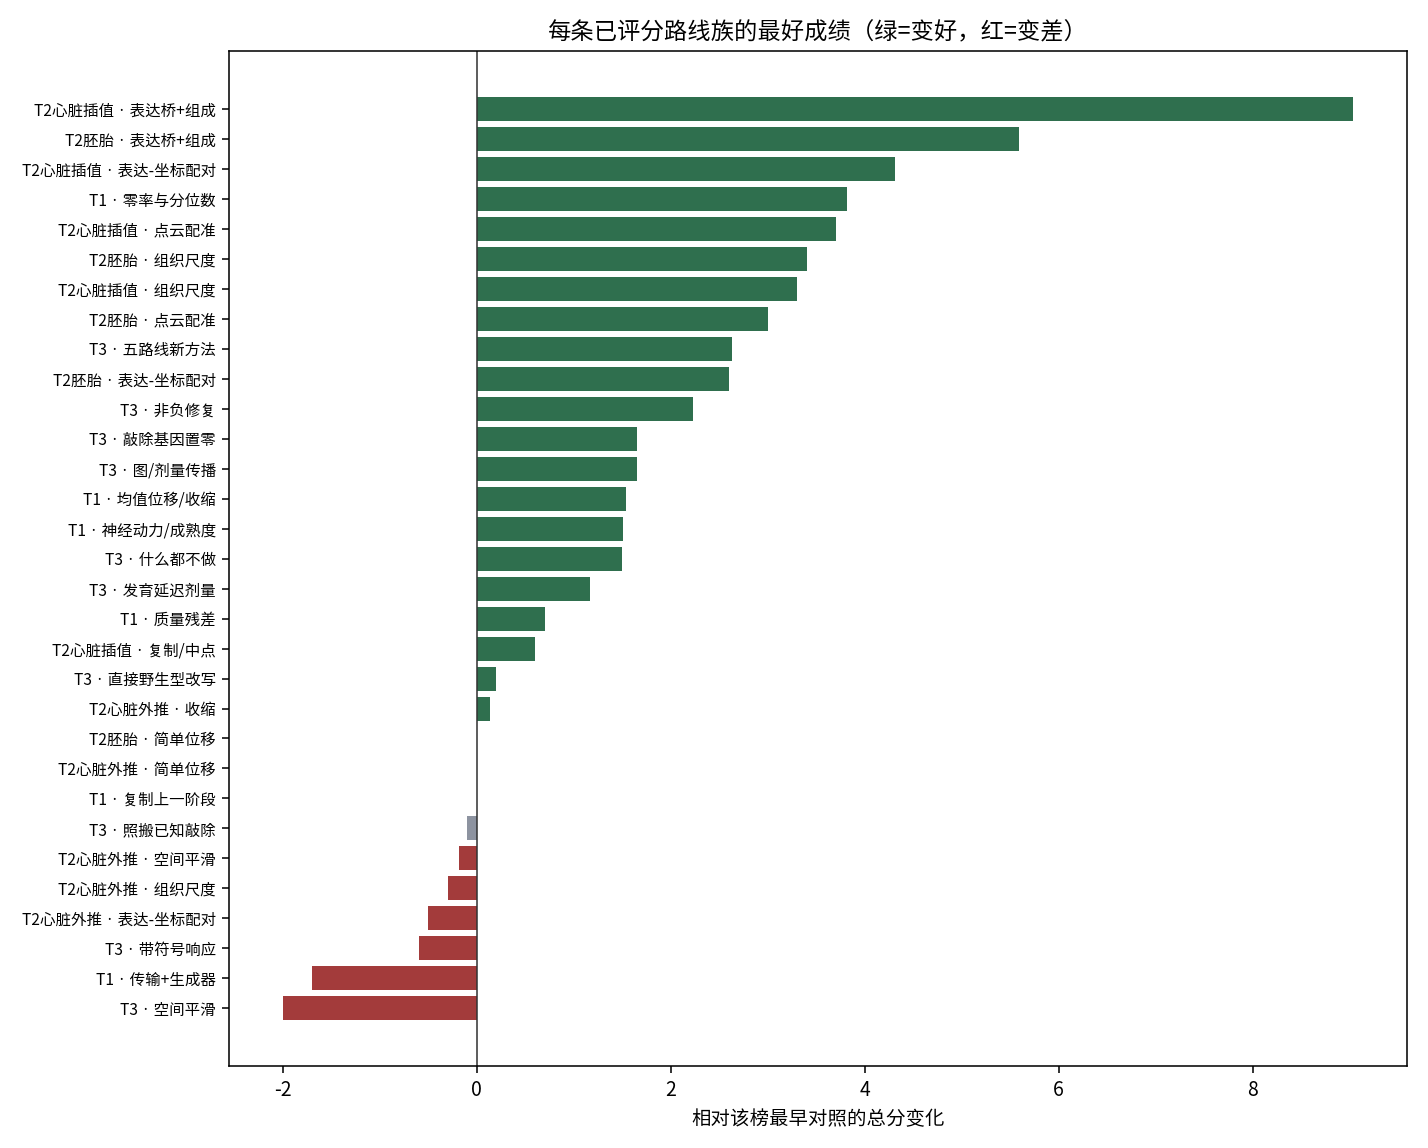
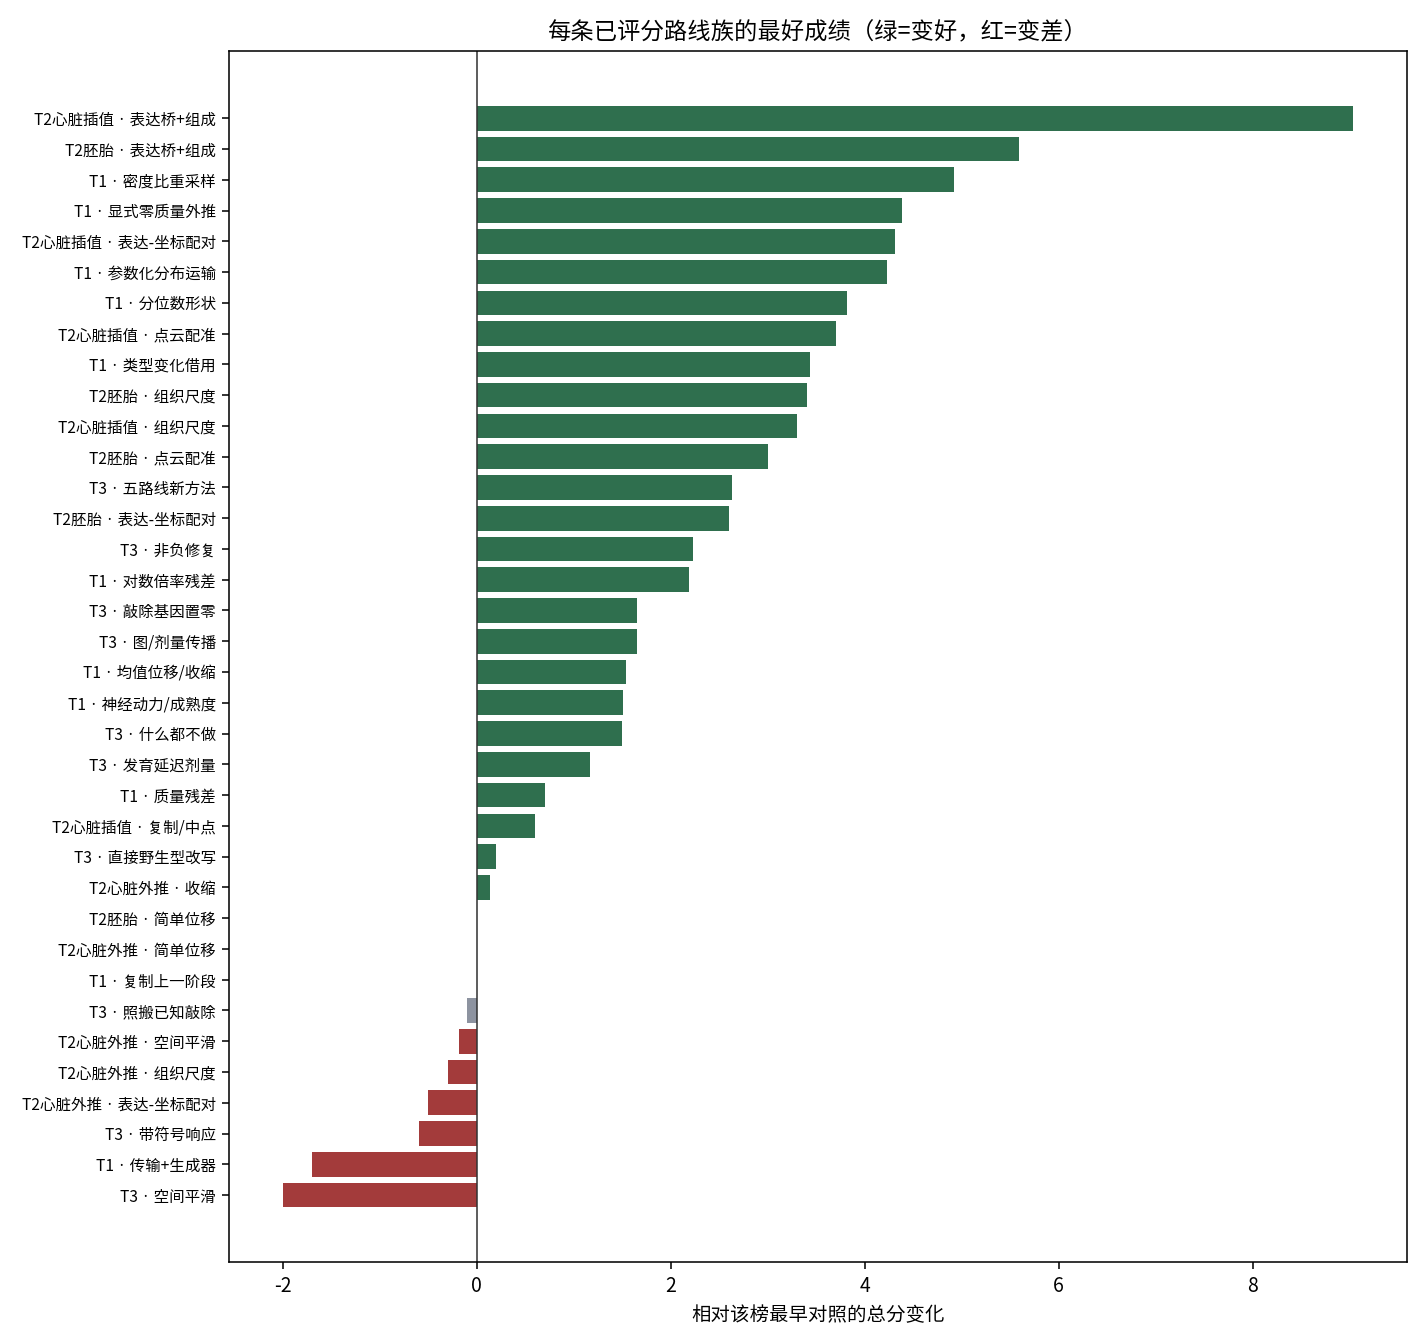
Register T1 five-route scores: v0024 51.92 promoted, Total 158.14; update the existing route synthesis in place

Changed region(s): [[0.1541, 0.0, 0.986, 0.6707], [0.0, 0.061, 0.1541, 0.9146], [0.1541, 0.7012, 0.986, 1.0]]

diff --git a/reviews/2026-09-27_submitted-route-synthesis/build_review_assets.py b/reviews/2026-09-27_submitted-route-synthesis/build_review_assets.py
@@ -49,7 +49,12 @@ FAMILIES = [
     ("T1:val", "质量残差", ["v0005", "v0006"]),
     ("T1:val", "传输+生成器", ["v0007", "v0008", "v0022"]),
     ("T1:val", "神经动力/成熟度", ["v0015", "v0016", "v0017"]),
-    ("T1:val", "零率与分位数", ["v0023"]),
+    ("T1:val", "分位数形状", ["v0023"]),
+    ("T1:val", "密度比重采样", ["v0024"]),
+    ("T1:val", "参数化分布运输", ["v0025"]),
+    ("T1:val", "类型变化借用", ["v0026"]),
+    ("T1:val", "显式零质量外推", ["v0027"]),
+    ("T1:val", "对数倍率残差", ["v0028"]),
     ("T2:embryo:val_interp", "简单位移", ["v0001"]),
     ("T2:embryo:val_interp", "组织尺度", ["v0002", "v0003"]),
     ("T2:embryo:val_interp", "表达-坐标配对", ["v0004", "v0005"]),
@@ -154,7 +159,12 @@ def main() -> None:
 
     # highlighted submetric comparisons: winner vs a meaningful parent/baseline that has skills
     comparisons = [
-        ("T1:val", "v0023", "v0004", "零率分位数 vs 严格均值位移"),
+        ("T1:val", "v0024", "v0023", "密度比重采样 vs 分位数父版本"),
+        ("T1:val", "v0025", "v0023", "参数化运输 vs 分位数父版本"),
+        ("T1:val", "v0026", "v0023", "类型借用 vs 分位数父版本"),
+        ("T1:val", "v0027", "v0023", "显式零质量 vs 分位数父版本"),
+        ("T1:val", "v0028", "v0023", "对数倍率 vs 分位数父版本"),
+        ("T1:val", "v0023", "v0004", "分位数形状 vs 严格均值位移"),
         ("T1:val", "v0019", "v0004", "收缩微调 vs 严格均值位移"),
         ("T1:val", "v0022", "v0004", "全基因流匹配 vs 严格均值位移"),
         ("T2:embryo:val_interp", "v0010", "v0002", "表达桥 vs 组织尺度"),
@@ -213,7 +223,7 @@ def main() -> None:
         best = max(r["score"] for r in have)
         fam_rows.append((best - base, f"{BOARD_SHORT[board]} · {fam}", best))
     fam_rows.sort()
-    fig, ax = plt.subplots(figsize=(10.2, 8.2))
+    fig, ax = plt.subplots(figsize=(10.2, 9.6))
     ys = range(len(fam_rows))
     colors = ["#a33b3b" if d < -0.1 else "#2f6f4e" if d > 0.1 else "#8d93a0" for d, _, _ in fam_rows]
     ax.barh(list(ys), [d for d, _, _ in fam_rows], color=colors)
@@ -228,7 +238,7 @@ def main() -> None:
 
     # submetric small multiples for the three confirmed wins + extrap non-win
     panels = [
-        ("T1 零率分位数\n相对严格位移", "T1:val", "v0023", "v0004",
+        ("T1 密度比重采样\n相对分位数父版本", "T1:val", "v0024", "v0023",
          ["de_score", "de_direction", "mmd_u", "variogram"]),
         ("T2心脏插值 表达桥\n相对配对", "T2:heart:val_interp", "v0013", "v0009",
          ["de_score", "de_direction", "mmd_u", "scale_log_ratio", "variogram", "neighborhood_mmd"]),

diff --git a/reviews/2026-09-27_submitted-route-synthesis/REPORT.md b/reviews/2026-09-27_submitted-route-synthesis/REPORT.md
@@ -1,10 +1,10 @@
-# 已评分路线综述（2026-09-27）
+# 已评分路线综述（2026-09-27，2026-09-28 补记 T1 五路线）
 
-这次只谈**已经交到服务器、并且分数已经回填**的路线。本地做过、但没交或还没回分的，单独放在后面，不和服务器结论混写。
+这次只谈**已经交到服务器、并且分数已经回填**的路线。本地做过、但没交或还没回分的，单独放在后面，不和服务器结论混写。2026-09-28 把 T1 五路线回分写进本文和图，没有另开新综述。
 
 数字来自 `submissions/INDEX.tsv` 和 `reports/SERVER_SUBMETRIC_REGISTRY.tsv`。老版本 INDEX 里有的总分是页面四舍五入（例如 T1 v0004 记成 48.5，精确值是 48.47）。晋级比较用精确值。没有用子项倒推出总分。
 
-当前官方合计 **157.04** = T1 50.82 + T2 任务分 58.29 + T3 47.93。T2 的 58.29 不是三个榜的分数相加。心脏外推榜已有 50.64，但合计里用的仍是 50.53，差 0.11，还没从门户页面对上，这里不把它算进合计。
+当前官方合计 **158.14** = T1 51.92 + T2 任务分 58.29 + T3 47.93。T2 的 58.29 不是三个榜的分数相加。心脏外推榜已有 50.64，但合计里用的仍是 50.53，差 0.11，还没从门户页面对上，这里不把它算进合计。
 
 ## 先看一张图
 
@@ -14,13 +14,13 @@
 
 | 榜 | 最早对照 | 目前最高 | 拉开多少 | 最高来自哪条路线 |
 |---|---:|---:|---:|---|
-| T1 时间 | 47.0 复制上一阶段 | **50.82** | +3.82 | 零率 + 分位数（v0023） |
+| T1 时间 | 47.0 复制上一阶段 | **51.92** | +4.92 | 密度比重采样（v0024，父版本是 50.82 的分位数形状） |
 | T2 胚胎插值 | 56.7 简单位移 | **62.29** | +5.59 | 表达桥 + 组成（v0010） |
 | T2 心脏插值 | 53.0 复制上一阶段 | **62.04** | +9.04 | 表达桥 + 组成（v0013） |
 | T2 心脏外推 | 50.5 简单位移 | **50.64** | +0.14 | 把位移收一点（v0011） |
 | T3 敲除 | 45.3 交野生型 | **47.93** | +2.63 | 零膨胀 / hurdle（v0048） |
 
-五个榜里，**心脏插值拉开最多，心脏外推几乎没动**。T1 和 T3 的最高分仍然贴着 50 附近，离“明显超过什么都不做”还有距离。
+五个榜里，**心脏插值拉开最多，心脏外推几乎没动**。T1 最高分到了 51.92，刚过官网那条 50 的线一点；T3 的 47.93 仍在线下。复制件和这条线对不齐，所以不能把“过 50”直接说成已经稳定超过“什么都不做”。
 
 ## 1. 做完了什么，哪里赚得最多
 
@@ -33,7 +33,8 @@
 | 这一步新做了什么 | 和谁比 | 总分 | 这一步自己赚了多少 |
 |---|---|---:|---:|
 | T2 心脏：表达桥再加细胞组成 | 当时最好的配对 57.31 | 62.04 | **+4.73** |
-| T1：在严格位移上改零率和分位数 | 严格位移 48.47 | 50.82 | **+2.35** |
+| T1：在分位数形状父版本上做密度比重采样 | 父版本 v0023 的 50.82 | 51.92 | **+1.10** |
+| T1：在严格位移上交分位数形状 | 严格位移 48.47 | 50.82 | **+2.35** |
 | T2 胚胎：表达桥再加细胞组成 | 组织尺度 60.1 | 62.29 | **+2.19** |
 | T3：零膨胀，不再只把敲除基因置零 | 基因置零 46.95 | 47.93 | **+0.98** |
 | T2 心脏外推：把位移收一点 | 简单位移 50.5 | 50.64 | +0.14，可忽略 |
@@ -46,13 +47,17 @@
 
 四张小图的横轴刻度不一样。外推那张看起来柱子不短，其实最大只有 0.8，总分几乎没动。
 
-**T1 的 +2.35，大约六成来自基因协变。** 已知权重是差异基因 25%、方向 25%、群体分布 30%、基因协变 20%。协变从 40.6 到 47.8（+7.2），按权重大约贡献 1.44 分；方向和群体分布各贡献约 0.4 分；差异基因几乎没动（43.8→44.0）。
+**T1 要分成两步看，两步赚的抽屉不一样。**
+
+第一步，分位数形状相对严格位移的 +2.35，大约六成来自基因协变。已知权重是差异基因 25%、方向 25%、群体分布 30%、基因协变 20%。协变从 40.6 到 47.8（+7.2），按权重大约贡献 1.44 分；方向和群体分布各约 0.4 分；差异基因几乎没动（43.8→44.0）。事后核对构建脚本：这一版算过零率一步外推，但最终没有用上，实际是把晚期经验分位映射用到了晚期细胞上。所以 50.82 证明的是这版候选，不是“显式零率外推已经过服务器”。
+
+第二步，密度比重采样相对这个父版本再 +1.10，四个子项都涨，最大的是差异基因 +1.5（44.0→45.5），方向 +1.1，群体分布 +1.2，协变只 +0.4。按权重，这一步的钱主要在差异基因、方向和群体分布，不再是协变。同批里，显式零质量外推 51.38、参数化分布运输 51.23，都好过父版本，但都不如密度比重采样。类型变化借用 50.44、对数倍率残差 49.19，差于父版本。
 
 **T2 心脏插值的大涨，主要是器官大小和细胞群体，不是基因协变。** 大小缩放 +15.4，群体分布 +8.6，邻里结构 +5.4，方向 +5.6。基因协变反而 −3.8。胚胎插值也一样：方向 +14.3，基因协变 −7.0，总分仍然上涨。
 
 **T3 的 +0.98 几乎全是“找对了哪些基因变了”。** 差异基因 39.2→42.6（+3.4）。方向、群体、响应强弱几乎不动。响应强弱在最近八个回分里全是 50.0，这批数据里它不区分好坏。零膨胀把基因协变做差了（51.0→49.3）。旁边的收缩优化（v0046，47.65）协变略好、差异基因少赚 1.4，总分仍低于零膨胀。
 
-一句话：三个任务赚钱的抽屉不一样。T1 赚协变，T2 赚大小和方向，T3 赚“哪些基因变了”。把一个任务的成功办法原样搬到另一个任务，没有根据。
+一句话：三个任务赚钱的抽屉不一样。T1 先赚协变，再靠密度比重采样补差异基因；T2 赚大小和方向；T3 赚“哪些基因变了”。把一个任务的成功办法原样搬到另一个任务，没有根据。
 
 ## 2. 对照最初的原子地图：探索了什么，还没探索什么
 
@@ -77,7 +82,7 @@
 地图之外、后来才出现、而且成了当前最高的，是三件最初没列进去的事：
 
 1. T2 的表达桥加细胞组成；
-2. T1 的零率和分位数；
+2. T1 的分位数形状，以及叠在它上面的密度比重采样（现在的 T1 最高）；
 3. T3 的零膨胀。
 
 所以：**最初原子大多试过了，真正的最高分不在那张图的主原子上，而在后来更窄的分布修改上。** 大模型那一栏，要么没做，要么做了并更差。
@@ -95,12 +100,14 @@
 - **T3 图传播和剂量**：12 个版本，最好也只是和“基因置零”打平。图本身没有额外的分。
 - **T2 外推上的尺度、配对、空间平滑**：都不高于简单位移。插值上有效的办法，换到外推就失效。
 - **T1 继续拧收缩旋钮**：最好 48.54，和严格位移 48.47 落在平局带里。协变只 +1.5，其他子项还略差。这个旋钮没有服务器空间了。
+- **T1 对数倍率残差（v0028，49.19）**：比分位数父版本低 1.63。差异基因、方向、群体分布都退，只有协变略涨。不保留零过程、改走倍率残差，服务器不买账。
+- **T1 把共同类型的变化借给特有类型（v0026，50.44）**：比父版本低 0.38，四个子项里三个退、协变也退。这次借用没有服务器收益。
 
 ### 服务器指向的、还值得做的
 
-- **谁表达、谁不表达。** T1 零率和 T3 零膨胀是两个任务上仅有的新高。它们改的是“这个基因在多少细胞里是零”，不是把细胞重新排队。
+- **谁表达、谁不表达，再加上细胞在细状态里的占比。** T3 零膨胀仍是该榜最高。T1 上，分位数形状先把协变拉起来；密度比重采样再在不重排单个基因的前提下改细状态占比，四个子项都涨，成为新高。显式零质量也赚了，但不如密度比。
 - **T2 插值要同时改表达和细胞组成，还要让器官大小跟着走。** 只改表达、不改组成的那一臂（心脏插值 56.27）被淘汰；加上组成才到 62.04。
-- **基因协变在 T1 是这次涨幅最大的抽屉，在 T2/T3 的赢家里是被牺牲的。** T1 协变从 40.6 涨到 47.8，但差异基因仍是四个子项里最低的（44.0）。T2 心脏插值的赢家协变只有 28.4。协变是剩余空间，不是已经赚完的空间。
+- **基因协变在 T1 的第一步涨得最多，第二步几乎没再涨；在 T2/T3 的赢家里是被牺牲的。** T1 协变现在是 48.2，差异基因 45.5，仍是四个子项里偏低的两个。T2 心脏插值的赢家协变只有 28.4。协变仍有空间，但下一分不一定还在这个抽屉。
 - **外推是最大的空档。** 五个榜里只有它几乎没离开出发点。任何把插值赢家直接外推的方案，现有分数都不支持。
 
 ## 4. 哪些已确认的方向可以合在一起
@@ -110,13 +117,13 @@
 | 可能的组合 | 为什么可能更赚 | 为什么不能直接做 | 最小验证 |
 |---|---|---|---|
 | T3 零膨胀 + 收缩优化的协变 | 零膨胀赚差异基因、亏协变；收缩（47.65）协变略好。两边赚的抽屉不同。 | 还没证明能把协变补回去而不吃掉 +3.4 的差异基因。 | 一条新候选：零膨胀的零过程不动，只在非零值上套收缩。先本地看协变和差异基因是否同时不退，再决定交不交。 |
-| T1 零率分位数，扩大覆盖 | 全量拟合只覆盖了约 33% 的基因位置，其余沿用旧位移。服务器已经证明这个规则能赚协变。 | 不是把两个模型接起来，是把同一条规则用到更多基因和类型上。 | 先在报告场景把覆盖从 33% 提到更高，看协变是否继续涨、差异基因是否仍不退。涨了再用预留的第二个候选名额。 |
+| T1 密度比重采样 + 显式零质量里没重复的那部分 | 密度比赚差异基因和群体分布（51.92）；显式零质量协变更高（49.5 vs 48.2），但总分低 0.54。 | 两版都已经交过，不能把低分那版整包叠上去。只许借它多出来的协变，不能动密度比已经赚到的差异基因。 | 先在报告场景做一版“密度比定权、零质量只改协变缺口”。四个子项任一退回父版本以下就停，不交。 |
 | T2 表达桥保持，单独补协变 | 桥赚了方向和大小，协变是亏的（胚胎 −7.0，心脏插值 −3.8）。 | 以前用重排或平滑去补协变，服务器和外推都否定了。不能用那种补法。 | 只许做不改每个基因取值集合的协变修正；若本地协变回升但方向掉，就停。 |
 | 三个任务共用“零过程”这个想法 | T1 和 T3 的赢家都是零，不是新网络。 | 这不是一个可以共用的模型。数据、基因面板、评分抽屉都不同。 | 不要做统一大模型。各自在自己的榜上扩大零过程的覆盖。 |
 
 不建议的组合：
 
-- 零率分位数 + 流匹配 / 扩散 / 把细胞重新排队。后三类要么服务器更差，要么本地把能量或细胞内聚做崩。
+- 分位数或密度比 + 流匹配 / 扩散 / 对数倍率残差 / 把细胞按基因重新排队。后几类要么服务器更差，要么本地把能量或细胞内聚做崩。类型变化借用这一次也没有加分。
 - 表达桥 + 外推空间平滑。平滑在外推上没有正分，在 T3 上是灾难。
 - 专门做“响应强弱”。最近八次全是 50.0，先确认这个子项还能不能动，再立项。
 
@@ -126,7 +133,7 @@
 
 **适合放大的，是覆盖面和分辨率，不是网络宽度。**
 
-- T1 零率分位数：已证实的规则只用在大约三分之一的位置上。放大意味着更多基因、更细的细胞类型、同一套有界规则。不是把网络做深。尺度扫描已经说明步长 1 倍最好，0.5 倍和 1.5 倍都更差，所以不是去扫一个更大的步长。
+- T1 密度比重采样：这是当前最高，放大指的是权重用多少基因、截断放多宽、细状态分多细，不是把分类器做深。同批已经说明：换成参数化运输、显式零质量、类型借用、对数倍率，都没有更高。不要顺着没赢的那四条加参数。
 - T3 零膨胀：差异基因还有空间（42.6，同榜其他子项都在 50 上下）。放大意味着更多基因、分类型的零过程，而不是更大的图。图修复（47.03）已经低于简单的非负均值修复（47.53）。
 - T2 表达桥：插值上已经是最高。还能放大的是“组成估计用多少细胞、多少类型”，不是换一个更大的配准网络。配对和配准都试过，没有超过桥。
 
@@ -140,7 +147,7 @@
 
 - T3 还有 v0037、v0040、v0041 没回分。上传额度当天用完，不在这 8 个分数里。它们回来之前，不把“五路线 / 修复”说成全部评完。
 - T2 九条新路线只写了设计，还没跑、没交。
-- T1 的残差解码、线性动力、模块运输、协方差重排只在本地关闭，没有服务器分。
+- T1 五路线已全部回填，写进上面的表。残差解码的旧加法版本仍只在本地关闭；交上去的是对数倍率那一版，服务器 49.19，已否定。
 - 本地分数和服务器分数多次方向相反。上面的“潜力”是筛选建议，不是预测下一次能加多少分。
 
 ## 图和表

diff --git a/AUDIT.md b/AUDIT.md
@@ -3,19 +3,19 @@
 Regenerate: `python scripts/generate_audit.py`. Sources: INDEX.tsv + LANE_VERDICTS.tsv + TODO.md.
 
 ## Server bests (numeric; selection follows ±0.1 TIE band, incumbent stays)
-- T1:val: **50.82** (v0023 t1_next_r1_qshape)
+- T1:val: **51.92** (v0024 five_n1density)
 - T2:heart:val_extrap: **50.64** (v0011 g0_t2_r2_shrink)
 - T3:gata4: **47.93** (v0048 next_n2hurdle)
 
-Score-pending rows: 17 (v0001/expression_midpoint_unscaled, v0007/t2_s3_l2_spateo, v0008/t2_s3_l2_spateo, v0006/t2_s3_l1_pycpd, v0007/t2_s3_l2_spateo, v0008/j1_fgw_assignment, v0008/b4_t2_r3_l1_damp050, v0009/b4_t2_r3_l2_time1333, v0010/b4_t2_r3_l3_popmix050, v0037/next_r3splfix, v0040/next_r4panelfix, v0041/next_r4medfix, v0024/five_n1density, v0025/five_n2param, v0026/five_n3borrow, v0027/five_o1mass, v0028/five_o2rate)
+Score-pending rows: 12 (v0001/expression_midpoint_unscaled, v0007/t2_s3_l2_spateo, v0008/t2_s3_l2_spateo, v0006/t2_s3_l1_pycpd, v0007/t2_s3_l2_spateo, v0008/j1_fgw_assignment, v0008/b4_t2_r3_l1_damp050, v0009/b4_t2_r3_l2_time1333, v0010/b4_t2_r3_l3_popmix050, v0037/next_r3splfix, v0040/next_r4panelfix, v0041/next_r4medfix)
 Boards without scored INDEX rows are omitted above; see reports/SERVER_SCORE_REGISTRY.md.
 
-## Lane verdicts (64 rows in LANE_VERDICTS.tsv)
-- SHIPPED: 33
-- FAIL: 11
+## Lane verdicts (65 rows in LANE_VERDICTS.tsv)
+- SHIPPED: 38
+- FAIL: 12
 - VOID: 2
 - PARKED: 2
-- PENDING_SERVER: 7
+- PENDING_SERVER: 2
 - GATE_ONLY: 9
 - Closed lanes (one-line cause):
   - G1-T1-D1: return de 0.3585/dir 0.6243; var 0.086 collapse
@@ -31,6 +31,7 @@ Boards without scored INDEX rows are omitted above; see reports/SERVER_SCORE_REG
   - T1-NEXT-R2: decoder damage confirmed (A energy 32x + var collapse) but residual repair only ties strict; no promotion path
   - T1-NEXT-R3: diagonal ties strict; lowrank loses (dir -0.05, energy +21%); two-point linear step is weak link
   - T1-NEXT-R4: module transport collapses (energy 6.79, lib 0.476); A/B identical; train fit already poor
+  - T2-E-N1-SBL: pre-declared negation criterion fired: nmmd 0.395969 (L1 gated 127/498 genes) / 0.324687 (L2 ungated) vs do-no
 
 ## Current branch (from TODO.md)
 - **当前执行分支**：T2 九路线 M0 已冻结（5% 判据 + 父版本 SHA 实核 + 已耗尽轴清单），M1 researcher 检索与设计定稿待启动；T3 八分回填完（v0048 47.93 新 best，Total 157.04；v0037/v0040/v0041 仍待分）；T1-NEXT 全收口（R1 v0023 50.82 selection 在位，R2/R3/R4/R5 诊断关闭，R6 PARKED）。分支详情见“T2 九路线”节与 DECISIONS D-20260927-T2M0FREEZE-001。

diff --git a/reports/SERVER_SCORE_REGISTRY.md b/reports/SERVER_SCORE_REGISTRY.md
@@ -821,3 +821,23 @@ Decision and limits:
 - Skill-level read (descriptive, not causal): v0048's gain concentrates in de_score (39.2→42.6, +3.4) with direction at 50.0; its variogram (49.3) trails v0046/v0034 (51.3). severity_slope reads 50.0 on all eight returns — floor-anchored, carries no discriminative signal in this batch.
 - No new model fit or candidate generation in this score-registration task. Scientific status unchanged; blocks_submission: false.
 - Decision: D-20260927-T3SCORE-001.
+
+<a id="t1-five-score-return-20260928"></a>
+## T1 FIVE score return — 2026-09-28
+
+Source / raw evidence: user transcribed five portal Model names, board totals and four skills each in the current conversation. Submission IDs, timestamps and screenshots were not supplied; no independent portal query was performed. Values preserve supplied precision; reported totals are not reconstructed from rounded skills (T1 weights 0.25/0.25/0.30/0.20 give 51.93/51.21/50.455/51.41/49.215 versus reported 51.92/51.23/50.44/51.38/49.19; differences are rounding). Local artifact identities match submissions/INDEX.tsv; artifacts immutable. Parent v0023 and contract PASS remain in that index.
+
+| Portal model | Board score | de_score | de_direction | mmd_u | variogram |
+|---|---:|---:|---:|---:|---:|
+| t1_val__n1density__v0024.h5ad | 51.92 | 45.5 | 58.5 | 54.3 | 48.2 |
+| t1_val__n2param__v0025.h5ad | 51.23 | 44.4 | 57.0 | 53.6 | 48.9 |
+| t1_val__n3borrow__v0026.h5ad | 50.44 | 43.9 | 56.8 | 53.0 | 46.9 |
+| t1_val__o1mass__v0027.h5ad | 51.38 | 44.0 | 57.6 | 53.7 | 49.5 |
+| t1_val__o2rate__v0028.h5ad | 49.19 | 42.1 | 55.2 | 50.7 | 48.4 |
+
+Decision and limits:
+- v0024 51.92 vs parent/incumbent v0023 50.82: +1.10, outside the ±0.1 TIE band. PROMOTED: new T1 selection and highest observed. Server Total updates 157.04 → 158.14 (51.92 + 58.29 + 47.93; T2/T3 components unchanged; heart_extrap 50.64-vs-50.53 OPEN item unaffected).
+- v0027 +0.56 and v0025 +0.41 also beat v0023 but trail v0024; scored backups, not co-promoted. v0026 −0.38 and v0028 −1.63 REJECT versus the parent.
+- Skill-level read versus v0023 (44.0/57.4/53.1/47.8), descriptive not causal: v0024 improves all four skills, largest on de_score +1.5. v0027's gain is mostly variogram +1.7 with de unchanged. v0028 loses de/dir/mmd and only variogram rises. This does not identify a biological mechanism.
+- No new model fit or candidate generation in this score-registration task. Scientific status unchanged; blocks_submission: false.
+- Decision: D-20260928-T1FIVESCORE-001.

diff --git a/reviews/README.md b/reviews/README.md
@@ -9,4 +9,4 @@
 
 | 日期 | 目录 | 范围 |
 |---|---|---|
-| 2026-09-27 | `2026-09-27_submitted-route-synthesis/` | 当时所有已回填服务器分数的路线 |
+| 2026-09-27 | `2026-09-27_submitted-route-synthesis/` | 已回填服务器分数的路线；2026-09-28 在原文件补记 T1 五路线 |
